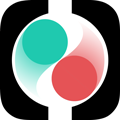
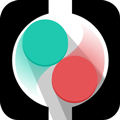
blocks-drop

diff --git a/_posts/2015-08-30-blocks.html b/_posts/2015-08-30-blocks.html
@@ -1,0 +1,39 @@
+---
+layout: post
+title: Blocks - Drop Tap Match
+description: Blocks - Drop Tap Match Crush
+keywords: IOS, Android,Game,Games,White,Tile,Arcade,Stay,The,Line,GitHub, Jekyll, Plugins, Works, Archives, Quotes, css, html, javascript, wordpress, logo, design, Don't Tap The White Tiles,geek,游戏，安卓,休闲游戏,街机游戏,虐心,坑爹,动作,别出白线,别踩白块儿,Swipe 3,Amazing Ninja Thief,jumpping,catch color tiles,Amazing Stick Hero,Stick Hero,Mmm Finger Adventure,Mmm Fingers,3 cars,数字游戏大联盟,数学之王,number,puzzle,games,Hexblocks,Compulsive,super hexagon,hexagon,blocks,hex,block,bloks,poptile,shades,aa,into the cirlce,catch.开心消消乐,糖果苏打传奇,how old,kindo,squares,push,别撞车,交通规则,Cross,crossy,Road,Don't,Crash,Crazy,impossible,wheel,spin,match,catch,bouncy,bouncing,block,blocks,bricks,breaker,arrow,box,radical,roll,the,wall,skill,wave,arcade
+---
+
+<!--可以下载的市场-->
+<div class="span-8 project">
+    <a href="https://itunes.apple.com/app/id1031924026?mt=8" target="_blank">
+        <img src="/images/btn/btn_AppStore.png" width="250" height="100" class="" />
+    </a>
+</div>
+<div class="span-8 project">
+    <a href="https://play.google.com/store/apps/details?id=com.es.games.dominodrop" target="_blank">
+        <img src="/images/btn/btn_GooglePlay.png" width="250" height="100" class="" />
+    </a>
+</div>
+
+<div class="span-8 project last">
+    <a href="http://a.app.qq.com/o/simple.jsp?pkgname=com.es.games.dominodrop" target="_blank">
+        <img src="/images/btn/down_more.png" width="250" height="100" class="" />
+    </a>
+</div>
+
+
+<!--预览图-->
+<hr class="space" />
+<div class="span-8 project">
+    <img src="/images/{{page.url}}/1.png" width="320" height="568" class="" />
+</div>
+<div class="span-8 project">
+    <img src="/images/{{page.url}}/2.png" width="320" height="568" class="" />
+</div>
+
+<div class="span-8 project last">
+    <img src="/images/{{page.url}}/3.png" width="320" height="568" class="" />
+</div>
+

diff --git a/recommendlistios.html b/recommendlistios.html
@@ -22,14 +22,14 @@ keywords:
 </div>
 
 <div class="span-3 project">
-    <a href="https://itunes.apple.com/app/id959495597?mt=8" target="_blank">
-        <img src="/recommendlistimg/hexblocks.png"  class="listtile" />
-        <span class="gamelisttitle">Hexblocks</span>
+    <a href="https://itunes.apple.com/app/id1031924026?mt=8" target="_blank">
+        <img src="/recommendlistimg/blocks.png"  class="listtile" />
+        <span class="gamelisttitle">Blocks Drop</span>
     </a>
 </div>
 
 <div class="span-3 project">
-    <a href="https://itunes.apple.com/cn/app/id862962565?mt=8" target="_blank">
+    <a href="https://itunes.apple.com/app/id862962565?mt=8" target="_blank">
         <img src="/recommendlistimg/tapwhite.png"  class="listtile" />
         <span class="gamelisttitle">WhiteTiles2</span>
     </a>

diff --git a/recommendlistandroid.html b/recommendlistandroid.html
@@ -22,9 +22,9 @@ keywords:
 </div>
 
 <div class="span-3 project">
-    <a href="market://details?id=com.es.games.hexblocks" target="_blank">
-        <img src="/recommendlistimg/hexblocks.png"  class="listtile" />
-        <span class="gamelisttitle">Hexblocks</span>
+    <a href="market://details?id=com.es.games.dominodrop" target="_blank">
+        <img src="/recommendlistimg/blocks.png"  class="listtile" />
+        <span class="gamelisttitle">Blocks Drop</span>
     </a>
 </div>
 
